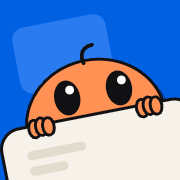
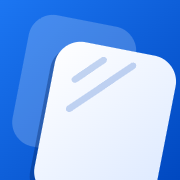
New Pane mark: a glass pane on blue

diff --git a/src/pane-mark.tsx b/src/pane-mark.tsx
@@ -1,9 +1,10 @@
 import { useId } from "react"
 
 /**
- * The Pane mark: a small apricot creature peeking over a card, on Pane blue.
- * Under 40px it draws the simpler cut (no fingers, rows or curl), the same drawing as public/favicon.svg;
- * from 40px up it draws the full icon (public/apple-touch-icon.png). Generated by output/r5/icons/apply.mjs.
+ * The Pane mark: a white glass pane on Pane blue, tilted and cropped by the tile.
+ * Under 40px it draws the simpler cut (one pane, one glint), the same drawing as public/favicon.svg;
+ * from 40px up it adds the second pane behind and the two-stroke glint (public/apple-touch-icon.png).
+ * Generated by output/r6/icons/apply.mjs.
  */
 export function PaneMark({ className }: { className?: string }) {
   const id = useId()
@@ -14,47 +15,31 @@ export function PaneMark({ className }: { className?: string }) {
           <clipPath id={id}>
             <path d="M1024 512L1023.7 669.3L1022.9 719.5L1021.5 755.8L1019.5 785.2L1016.9 810.2L1013.8 832.1L1010.1 851.6L1005.8 869.3L1000.9 885.3L995.4 900L989.2 913.5L982.4 926L974.9 937.4L966.7 948L957.7 957.7L948 966.7L937.4 974.9L926 982.4L913.5 989.2L900 995.4L885.3 1000.9L869.3 1005.8L851.6 1010.1L832.1 1013.8L810.2 1016.9L785.2 1019.5L755.8 1021.5L719.5 1022.9L669.3 1023.7L512 1024L354.7 1023.7L304.5 1022.9L268.2 1021.5L238.8 1019.5L213.8 1016.9L191.9 1013.8L172.4 1010.1L154.7 1005.8L138.7 1000.9L124 995.4L110.5 989.2L98 982.4L86.6 974.9L76 966.7L66.3 957.7L57.3 948L49.1 937.4L41.6 926L34.8 913.5L28.6 900L23.1 885.3L18.2 869.3L13.9 851.6L10.2 832.1L7.1 810.2L4.5 785.2L2.5 755.8L1.1 719.5L0.3 669.3L0 512L0.3 354.7L1.1 304.5L2.5 268.2L4.5 238.8L7.1 213.8L10.2 191.9L13.9 172.4L18.2 154.7L23.1 138.7L28.6 124L34.8 110.5L41.6 98L49.1 86.6L57.3 76L66.3 66.3L76 57.3L86.6 49.1L98 41.6L110.5 34.8L124 28.6L138.7 23.1L154.7 18.2L172.4 13.9L191.9 10.2L213.8 7.1L238.8 4.5L268.2 2.5L304.5 1.1L354.7 0.3L512 0L669.3 0.3L719.5 1.1L755.8 2.5L785.2 4.5L810.2 7.1L832.1 10.2L851.6 13.9L869.3 18.2L885.3 23.1L900 28.6L913.5 34.8L926 41.6L937.4 49.1L948 57.3L957.7 66.3L966.7 76L974.9 86.6L982.4 98L989.2 110.5L995.4 124L1000.9 138.7L1005.8 154.7L1010.1 172.4L1013.8 191.9L1016.9 213.8L1019.5 238.8L1021.5 268.2L1022.9 304.5L1023.7 354.7Z" />
           </clipPath>
+          <linearGradient id={`${id}bg`} x1="0" y1="0" x2="1" y2="1">
+            <stop offset="0" stopColor="#1c76f2" />
+            <stop offset="1" stopColor="#0048c0" />
+          </linearGradient>
+          <linearGradient id={`${id}pane`} x1="0" y1="0" x2="1" y2="1">
+            <stop offset="0" stopColor="#ffffff" />
+            <stop offset="1" stopColor="#dbe8ff" />
+          </linearGradient>
         </defs>
         <g clipPath={`url(#${id})`}>
           <g className="@min-[40px]:hidden">
-            <rect width="1024" height="1024" fill="#0060e2" />
-            <g transform="rotate(-11 512 512)">
-              <g transform="translate(26 38)">
-                <ellipse cx="512" cy="720" rx="440" ry="420" fill="#0047ad" stroke="#0047ad" strokeWidth="64" />
-              </g>
-              <ellipse cx="512" cy="720" rx="440" ry="420" fill="#ff9154" stroke="#111114" strokeWidth="64" strokeLinejoin="round" paintOrder="stroke" />
-              <ellipse cx="358" cy="500" rx="88" ry="114" fill="#111114" />
-              <circle cx="388" cy="456" r="28" fill="#fff" />
-              <ellipse cx="694" cy="500" rx="88" ry="114" fill="#111114" />
-              <circle cx="724" cy="456" r="28" fill="#fff" />
-              <rect x="-400" y="712" width="1800" height="900" rx="120" fill="#f6f2ea" stroke="#111114" strokeWidth="64" strokeLinejoin="round" paintOrder="stroke" />
+            <rect width="1024" height="1024" fill={`url(#${id}bg)`}/>
+            <g transform="rotate(11 512 512)">
+            <rect x="266" y="240" width="720" height="920" rx="170" fill="#00205c" fillOpacity=".35" transform="translate(-24 34)"/>
+            <rect x="266" y="240" width="720" height="920" rx="170" fill={`url(#${id}pane)`}/>
+            <path d="M420 560 640 340" stroke="#0048c0" strokeOpacity=".3" strokeWidth="64" strokeLinecap="round" fill="none"/>
             </g>
           </g>
           <g className="hidden @min-[40px]:inline">
-            <rect width="1024" height="1024" fill="#0060e2" />
-            <g transform="rotate(-11 512 512)">
-              <rect x="130" y="90" width="540" height="380" rx="72" fill="#2a7af0" />
-              <g transform="translate(20 30)">
-                <ellipse cx="512" cy="700" rx="390" ry="350" fill="#0047ad" stroke="#0047ad" strokeWidth="34" strokeLinejoin="round" />
-              </g>
-              <ellipse cx="512" cy="700" rx="390" ry="350" fill="#ff9154" stroke="#111114" strokeWidth="34" strokeLinejoin="round" paintOrder="stroke" />
-              <path d="M505 356C490 300 520 262 572 262" fill="none" stroke="#111114" strokeWidth="22" strokeLinecap="round" />
-              <ellipse cx="376" cy="532" rx="74" ry="100" fill="#111114" />
-              <circle cx="398.2" cy="490" r="25.2" fill="#fff" />
-              <ellipse cx="676" cy="532" rx="74" ry="100" fill="#111114" />
-              <circle cx="698.2" cy="490" r="25.2" fill="#fff" />
-              <g transform="translate(20 30)">
-                <rect x="-40" y="660" width="1100" height="760" rx="110" fill="#0047ad" stroke="#0047ad" strokeWidth="34" strokeLinejoin="round" />
-              </g>
-              <rect x="-40" y="660" width="1100" height="760" rx="110" fill="#f6f2ea" stroke="#111114" strokeWidth="34" strokeLinejoin="round" paintOrder="stroke" />
-              <rect x="90" y="790" width="340" height="52" rx="26" fill="#e2dccf" />
-              <rect x="90" y="880" width="220" height="52" rx="26" fill="#e2dccf" />
-              <ellipse cx="160" cy="670" rx="24" ry="42" fill="#ff9154" stroke="#111114" strokeWidth="34" strokeLinejoin="round" paintOrder="stroke" />
-              <ellipse cx="200" cy="664" rx="24" ry="42" fill="#ff9154" stroke="#111114" strokeWidth="34" strokeLinejoin="round" paintOrder="stroke" />
-              <ellipse cx="240" cy="670" rx="24" ry="42" fill="#ff9154" stroke="#111114" strokeWidth="34" strokeLinejoin="round" paintOrder="stroke" />
-              <ellipse cx="784" cy="670" rx="24" ry="42" fill="#ff9154" stroke="#111114" strokeWidth="34" strokeLinejoin="round" paintOrder="stroke" />
-              <ellipse cx="824" cy="664" rx="24" ry="42" fill="#ff9154" stroke="#111114" strokeWidth="34" strokeLinejoin="round" paintOrder="stroke" />
-              <ellipse cx="864" cy="670" rx="24" ry="42" fill="#ff9154" stroke="#111114" strokeWidth="34" strokeLinejoin="round" paintOrder="stroke" />
+            <rect width="1024" height="1024" fill={`url(#${id}bg)`}/>
+            <g transform="rotate(11 512 512)">
+            <rect x="110" y="130" width="620" height="760" rx="140" fill="#fff" fillOpacity=".2"/>
+            <rect x="286" y="250" width="700" height="900" rx="150" fill="#00205c" fillOpacity=".35" transform="translate(-20 30)"/>
+            <rect x="286" y="250" width="700" height="900" rx="150" fill={`url(#${id}pane)`}/>
+            <path d="M416 470 556 330M416 640 726 330" stroke="#0048c0" strokeOpacity=".22" strokeWidth="38" strokeLinecap="round" fill="none"/>
             </g>
           </g>
         </g>
